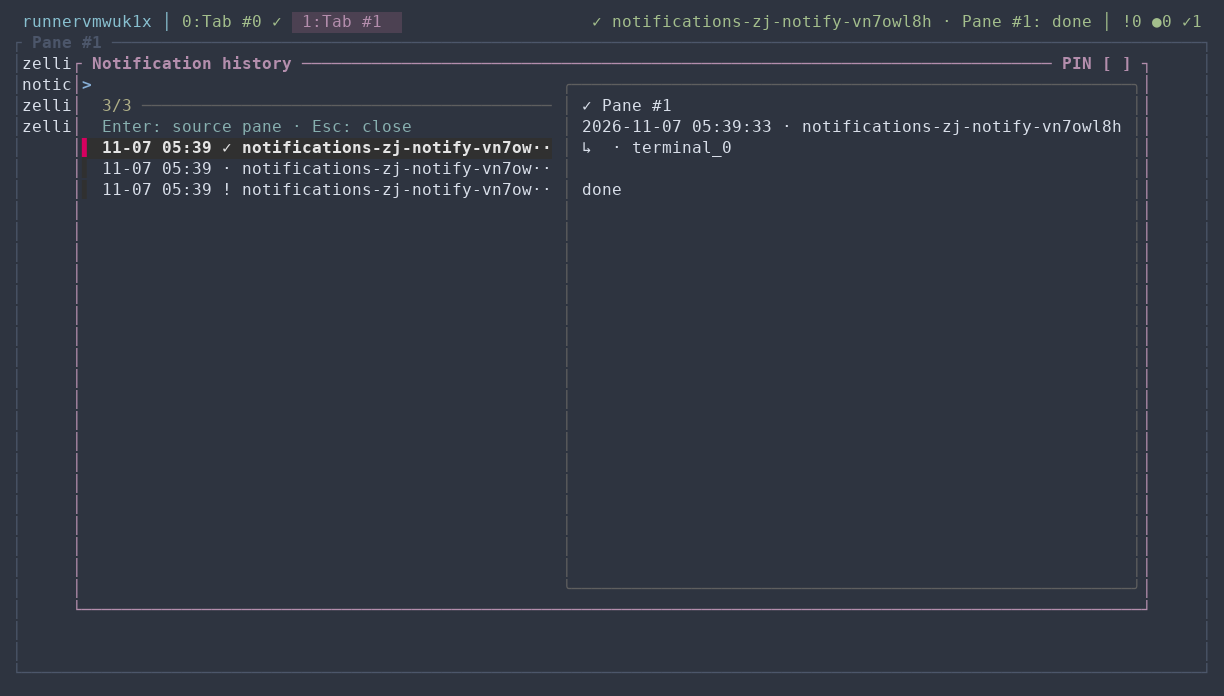
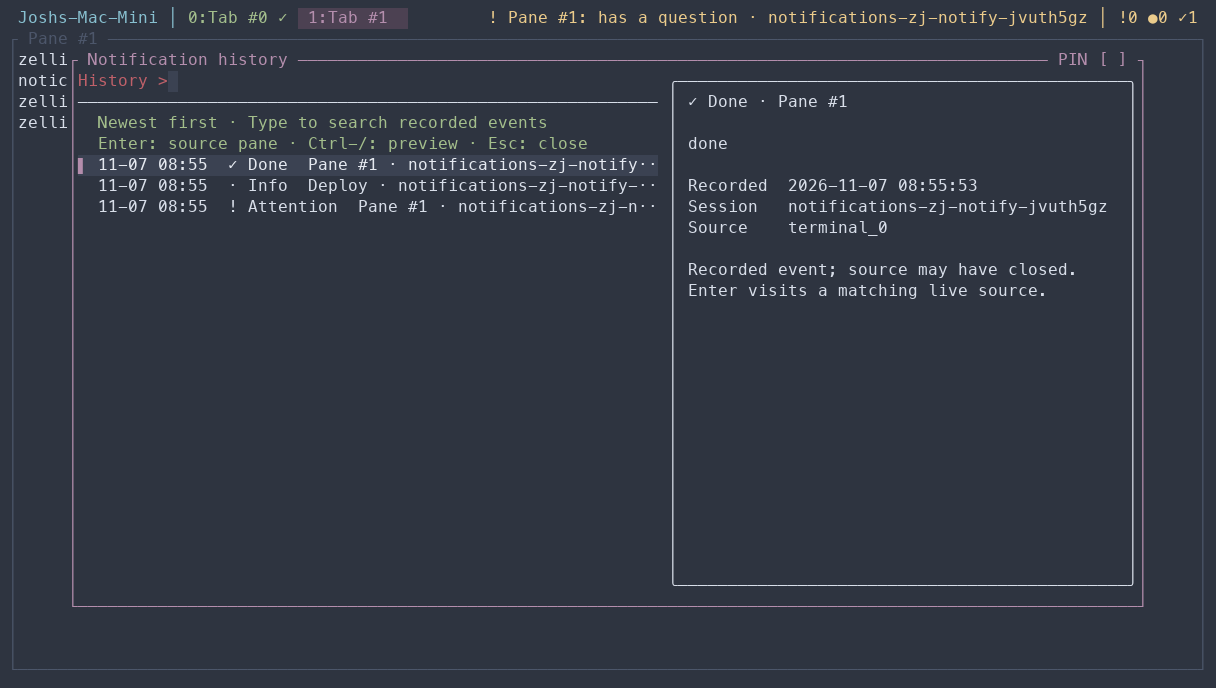
fix(zellij): improve notification usability
Detected-By: user

diff --git a/scripts/test-zellij-notifications-ui.py b/scripts/test-zellij-notifications-ui.py
@@ -42,6 +42,7 @@ def main():
         program.write_text(status.EMITTER)
         name = "notifications-" + work.name
         client = Terminal(shutil.which("zellij"), env, name)
+        clients = [client]
         screen = status.Display(120, 32)
         stream = pyte.Stream(screen)
         decoder = codecs.getincrementaldecoder("utf-8")("replace")
@@ -72,6 +73,12 @@ def main():
         try:
             client.grant_status_permissions()
             client.until("notification bar ready", lambda: "!0 ●0 ✓0" in view())
+            client.prefix(b"B")
+            client.until("empty history remains readable", lambda:
+                         "No notifications yet" in view() and "History >" in view())
+            capture("empty-history")
+            client.send(b"\x1b")
+            client.until("empty history closes", lambda: "Notification history" not in view())
             agent = client.terminals()[0]["id"]
             pid = work / "agent-pid"
             client.send((shlex.join(["python3", str(program), str(pid)]) + "\r").encode())
@@ -112,6 +119,12 @@ def main():
             client.until("history opens through its real key", lambda:
                          "Notification history" in view() and "Enter: source pane" in view())
             capture("history")
+            client.send(b"Version ready")
+            client.until("history search finds a script notice", lambda:
+                         "Version ready" in view() and "Recorded event" in view())
+            client.send(b"\x15Pane")
+            client.until("source title is searchable", lambda:
+                         "Source" in view() and "Deploy" not in view())
             client.send(b"\r")
             client.until("history selection visits the original pane", lambda:
                          focused_pane() == agent)
@@ -121,11 +134,26 @@ def main():
                          "Inbox" in view() or "inbox" in view())
             capture("inbox")
             client.send(b"\x1b")
+            client = Terminal(shutil.which("zellij"), env, name + "-narrow", columns=80)
+            clients.append(client)
+            screen = status.Display(80, 32)
+            stream = pyte.Stream(screen)
+            decoder = codecs.getincrementaldecoder("utf-8")("replace")
+            offset = 0
+            client.grant_status_permissions()
+            client.until("narrow bar is ready", lambda: "!0 ●0" in view())
+            client.prefix(b"B")
+            client.until("narrow history opens with a full source preview", lambda:
+                         "Notification history" in view() and "Recorded event" in view())
+            capture("history-narrow")
+            client.send(b"\x1b")
             print("PASS: installed notices preserve keyboard focus, urgency excludes completions, repeated state is deduplicated, history jumps without restarting the source, and the native inbox opens.")
         finally:
-            subprocess.run([client.binary, "kill-session", name], env=env,
-                           capture_output=True, timeout=5)
-            client.close()
+            for session in (name, name + "-narrow"):
+                subprocess.run([client.binary, "kill-session", session], env=env,
+                               capture_output=True, timeout=5)
+            for terminal in clients:
+                terminal.close()
 
 
 if __name__ == "__main__":

diff --git a/zellij/status/src/main.rs b/zellij/status/src/main.rs
@@ -80,6 +80,22 @@ fn clipped(value: &str, budget: usize) -> String {
     text
 }
 
+fn notification_right(notice: &str, counts: &str, cols: usize) -> String {
+    // WHY: Transient messages must leave room to identify and switch the active tab.
+    let tabs = (cols / 3).clamp(20, 48).min(cols);
+    let budget = cols.saturating_sub(tabs + counts.width() + 5).min(64);
+    if budget < 8 {
+        format!(" {} ", clipped(counts, cols.saturating_sub(2)))
+    } else {
+        format!(" {} │ {} ", clipped(notice, budget), counts)
+    }
+}
+
+fn bar_heading(mode: &str, host: &str, available: usize, reserve_tab: bool) -> String {
+    let budget = if reserve_tab { available.saturating_sub(12) } else { available };
+    clipped(&format!("{}{} │", mode, host), budget)
+}
+
 fn mark(status: AttentionStatus, question: bool) -> (&'static str, &'static str) {
     match status {
         AttentionStatus::NeedsYou if question => ("?", "235;203;139"),
@@ -278,8 +294,7 @@ impl ZellijPlugin for State {
         let right = if let Some(notice) = self.clipboard.notice() {
             format!(" {} ", clipped(&plain(notice), cols.saturating_sub(2)))
         } else if let Some((_, notice)) = self.notifications.notice() {
-            let budget = cols.saturating_sub(counts.width() + 5).min(64);
-            format!(" {} │ {} ", clipped(notice, budget), counts)
+            notification_right(notice, &counts, cols)
         } else { format!(" {} {} {} ", counts, battery, clock) };
         let right_width = right.width().min(cols);
         let available = cols.saturating_sub(right_width);
@@ -298,7 +313,8 @@ impl ZellijPlugin for State {
         let mut used = 0;
         print!("\x1b[{}m", if dimmed { 3 } else { 23 });
         print!("\x1b[48;2;46;52;64m\x1b[38;2;136;192;208m");
-        let heading = format!("{}{} │", mode, host);
+        let heading = bar_heading(mode, &host, available,
+            self.notifications.notice().is_some() && !self.tabs.is_empty());
         for c in heading.chars() {
             let width = c.width().unwrap_or(0);
             if used + width > available { break; }
@@ -345,5 +361,28 @@ impl ZellijPlugin for State {
             print!("{}", c); right_used += width;
         }
         print!("\x1b[0m");
+    }
+}
+
+#[cfg(test)]
+mod notification_layout_tests {
+    use super::*;
+
+    #[test]
+    fn notices_leave_tab_context_at_small_widths() {
+        for cols in [40, 80, 120] {
+            let right = notification_right(&"界".repeat(100), "!1 ●0 ✓2", cols);
+            assert!(right.width() <= cols - 20, "{cols}: {right}");
+            assert!(right.contains("!1 ●0 ✓2"));
+        }
+        for mode in [" ", " RENAME TAB "] {
+            let right = notification_right(&"Long notice ".repeat(10), "!1 ●0 ✓2", 45);
+            let available = 45 - right.width();
+            let heading = bar_heading(mode, "development-laptop", available, true);
+            assert!(available - heading.width() >= 12);
+        }
+        for cols in 2..20 {
+            assert!(notification_right("Failed", "!1 ●0 ✓2", cols).width() <= cols);
+        }
     }
 }

diff --git a/scripts/test-zellij-notifications.py b/scripts/test-zellij-notifications.py
@@ -72,6 +72,14 @@ class History(unittest.TestCase):
         self.assertNotEqual(result.returncode, 0)
         self.assertEqual(path.read_text(), "damaged history")
 
+    def test_empty_history_can_be_read_and_cancelled(self):
+        with patch.object(notify.subprocess, "run", return_value=
+                          subprocess.CompletedProcess([], 130, "", "")) as picker:
+            with patch.object(notify, "jump") as jump:
+                notify.history()
+        self.assertIn("No notifications yet", " ".join(picker.call_args.args[0]))
+        jump.assert_not_called()
+
     def test_jump_refuses_stale_pane_and_preserves_literal_session_names(self):
         row = event(1, session="--a session's name")
         with patch.dict(os.environ, {"ZELLIJ_SESSION_NAME": "origin"}):

diff --git a/zellij/status/src/notifications.rs b/zellij/status/src/notifications.rs
@@ -97,7 +97,7 @@ impl Notifications {
             {
                 self.show(
                     severity,
-                    &format!("{glyph} {} · {}: {}", item.session, title, body),
+                    &format!("{glyph} {title}: {body} · {}", item.session),
                 );
             }
             if recorder && item.is_current {

diff --git a/docs/zellij.md b/docs/zellij.md
@@ -220,11 +220,11 @@ On first use, the bar asks to read application state, run its local host-metadat
 
 `Ctrl-f b` opens the pinned runtime's native inbox/session card. In its inbox, Enter visits the source pane, `c` dismisses an item, `C` dismisses all, `m` mutes, `n` watches, `f` filters to this session, and `s` groups by session or status. Tab switches between the inbox and sessions. `Ctrl-f a` watches the current pane; `Ctrl-f U` mutes it. The existing `Ctrl-f Ctrl-a` attention jump is unchanged.
 
-The top bar distinguishes **`!` requires attention**, **`●` working**, and **`✓` completed**. Successful completions no longer inflate the urgent count. New background failures, questions, and completions briefly replace the clock with a colored notice while keeping those counts visible. Notices never open a pane, take focus, or consume application keys. A burst replaces the current notice; a success cannot displace an unexpired failure or question. Attaching to a session does not replay old items as notices, and progress updates stay quiet. Ordinary output is ignored unless its pane is watched; successful shell commands must run for thirty seconds before becoming attention.
+The top bar distinguishes **`!` requires attention**, **`●` working**, and **`✓` completed**. Successful completions no longer inflate the urgent count. New background failures, questions, and completions briefly replace the clock with a colored notice while keeping those counts and room for tab navigation visible. Notices never open a pane, take focus, or consume application keys. A burst replaces the current notice; a success cannot displace an unexpired failure or question. Attaching to a session does not replay old items as notices, and progress updates stay quiet. Ordinary output is ignored unless its pane is watched; successful shell commands must run for thirty seconds before becoming attention.
 
-`Ctrl-f B` opens fuzzy notification history with a message preview. Enter visits the original pane only while its server and pane process identities still match. Closed or replaced sources remain readable. History retains at most 500 events in a private JSON file under `${XDG_STATE_HOME:-$HOME/.local/state}/dotfiles/zellij`, with bounded text, atomic writes, and duplicate suppression across tabs/clients. Recording errors are visible; existing history is not silently overwritten if unreadable.
+`Ctrl-f B` opens notification history, newest first. Type to search titles, messages, severity, or session names. The list puts titles before session names, and the preview shows the full message and source. In narrow windows the preview moves below the list; `Ctrl-/` hides or restores it. Enter visits the original pane only while its server and pane process identities still match. Closed or replaced sources remain readable in the preview; attempting to visit one shows an explanation before closing. Esc closes history. Empty history stays open with a reminder that `Ctrl-f b` opens current attention. History retains at most 500 events in a private JSON file under `${XDG_STATE_HOME:-$HOME/.local/state}/dotfiles/zellij`, with bounded text, atomic writes, and duplicate suppression across tabs/clients. Recording errors are visible; existing history is not silently overwritten if unreadable.
 
-![Notification history and source preview captured by the Linux terminal check](images/zellij-notification-history.png)
+![Notification history and source preview captured by the macOS terminal check](images/zellij-notification-history.png)
 
 Publish structured notifications from a script without parsing terminal output:
 
